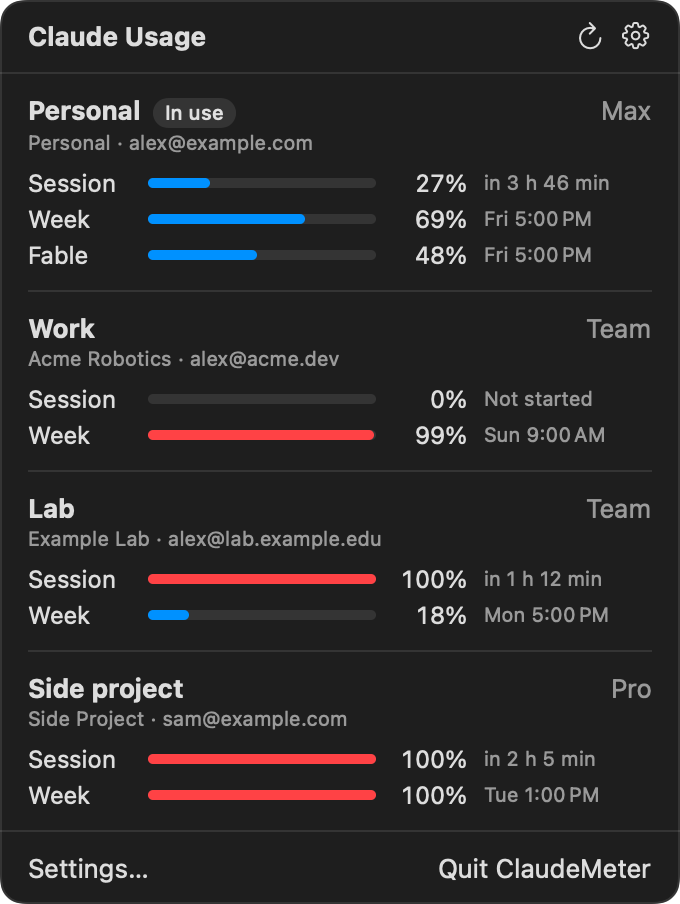
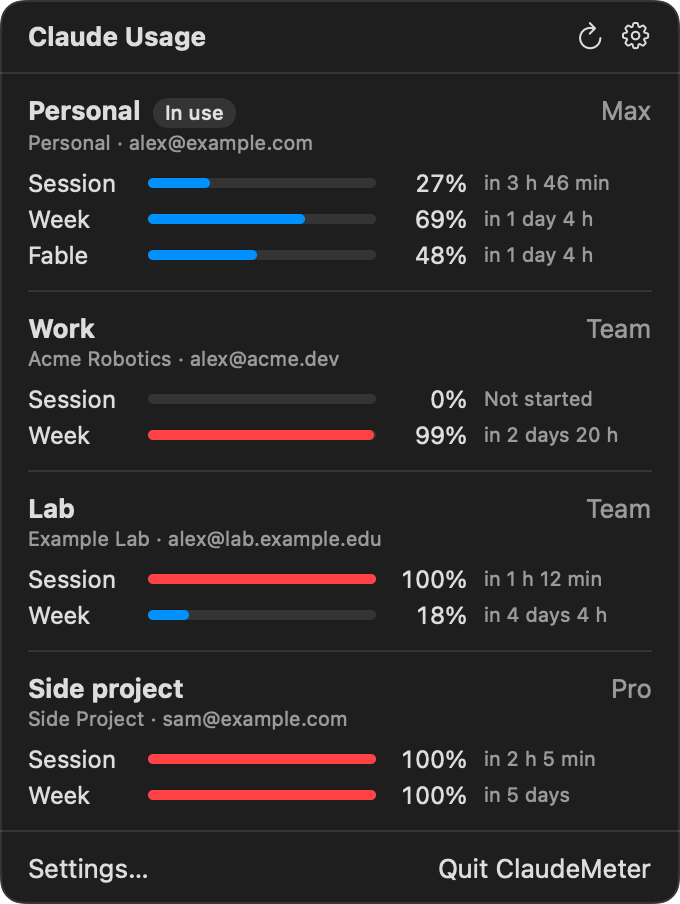
Show weekly resets as time left
Every limit shows its reset as time left: "in 46 min", "in 3 h 46 min",
"in 2 days 5 h" or "in 5 days".

Claude-Session: https://claude.ai/code/session_01WgD5GHrW6xq6TKQuzUEGEZ

diff --git a/Sources/ClaudeMeter/PopoverView.swift b/Sources/ClaudeMeter/PopoverView.swift
@@ -130,13 +130,13 @@ struct LimitRow: View {
         }
     }
 
-    /// Session: time left, e.g. "in 3 h 46 min", or "Not started". Weekly: e.g. "Sun 12:00 AM".
+    /// Time left, e.g. "in 46 min", "in 3 h 46 min" or "in 2 days 5 h"; "Not started" for an idle session.
     private var reset: String {
-        let isSession = limit.kind == "session"
-        guard let date = limit.resetsAt, date > now else { return isSession ? "Not started" : "" }
-        guard isSession else { return date.formatted(.dateTime.weekday(.abbreviated).hour().minute()) }
+        guard let date = limit.resetsAt, date > now else { return limit.kind == "session" ? "Not started" : "" }
         let minutes = Int((date.timeIntervalSince(now) / 60).rounded(.up))
-        return minutes >= 60 ? "in \(minutes / 60) h \(minutes % 60) min" : "in \(minutes) min"
+        let (days, hours) = (minutes / 1440, minutes % 1440 / 60)
+        if days > 0 { return "in \(days) \(days == 1 ? "day" : "days")" + (hours > 0 ? " \(hours) h" : "") }
+        return hours > 0 ? "in \(hours) h \(minutes % 60) min" : "in \(minutes) min"
     }
 
     var body: some View {
